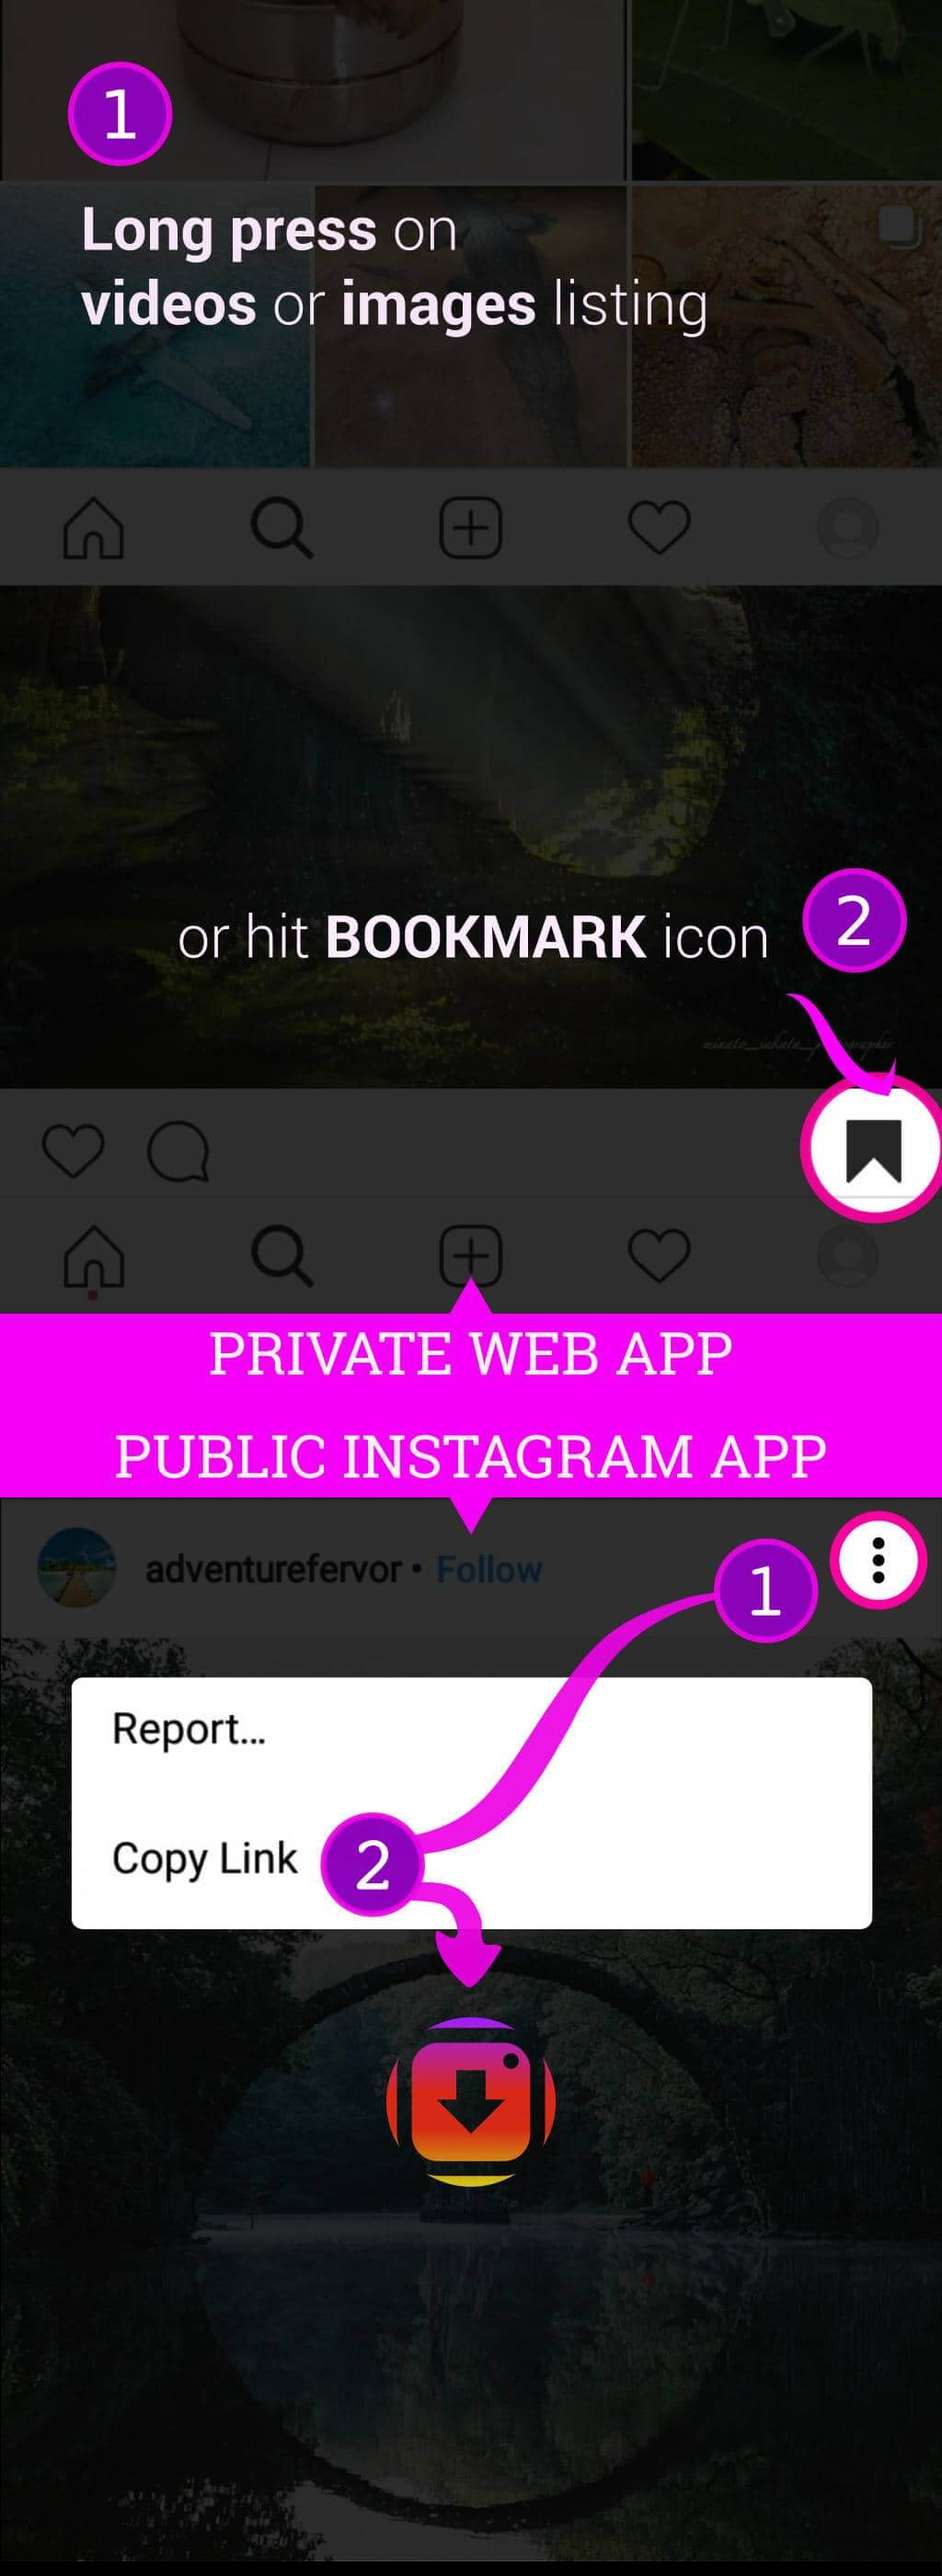
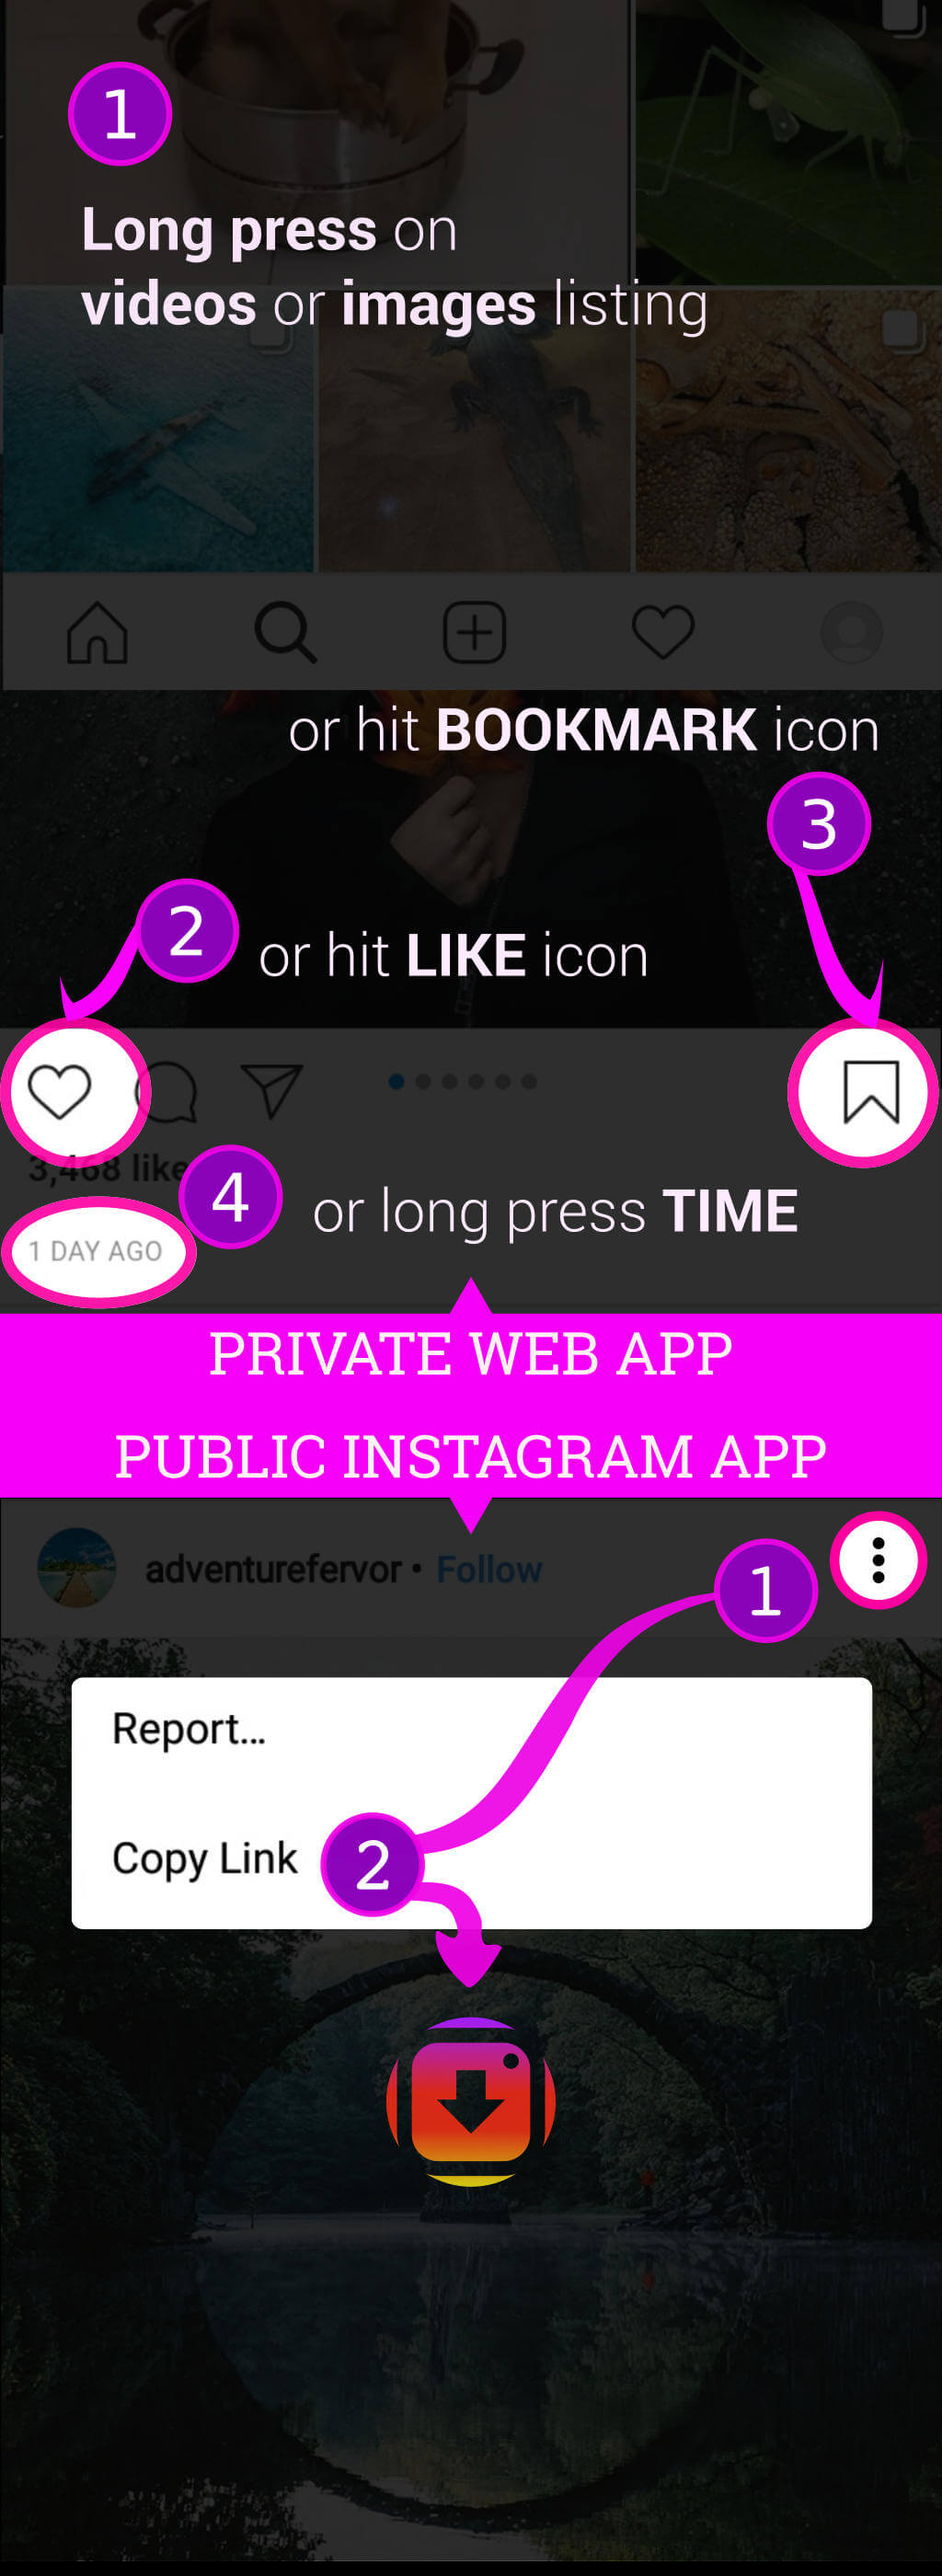
- Minor fixes.

diff --git a/project/vipinstagram/faq/index.html b/project/vipinstagram/faq/index.html
@@ -303,6 +303,12 @@
                           </div>
                         </details>
                         <details>
+                          <summary>How to refresh or reload the web app?</summary>
+                          <div>
+                            Pull to refresh like regular Instagram app.
+                          </div>
+                        </details>
+                        <details>
                           <summary>I downloaded one, but broken?</summary>
                           <div>
                             Might happen at slow connection with large size. When broken, the app may fail to display it. Try deleting it via Delete button at gallery display. Or long press it at grid menu display to reveal the Delete button. Or re-download it beforehand if prompted.
@@ -332,7 +338,7 @@
                             <br><b>FREE:</b>
                             <ol>
                               <li>Has reward or point system in return for app features.</li>
-                              <li>Browser will be killed if the app is put into background or overview. If scraping, it will be terminated.</li>
+                              <li>Scraper will be killed if the app is put into background or overview.</li>
                               <li>Scraper will start at the end of countdown after watching video with the above-mentioned minimum points. If the video is closed before the countdown ends, no scraping spider will run.</li>
                               <li>No watermark option is not saved.</li>
                               <li>My watermark requires PRO.</li>
@@ -340,7 +346,7 @@
                             <br><b>PRO:</b>
                             <ol>
                               <li>No hustle, no reward system.</li>
-                              <li>Browser persists as long as the app is open, not destroyed.</li>
+                              <li>Scraper persists as long as the app is open, not destroyed.</li>
                               <li>Scraper starts immediately.</li>
                               <li>No watermark option is saved.</li>
                               <li>My watermark replaces credits with yours.</li>
@@ -356,12 +362,25 @@
 
                           </div>
                         </details>
+                        
+                        <details>
+                          <summary>Know Bugs</summary>
+                          <div>
+                            <br><br><b>Know Bugs</b>
+                            <ul>
+                              <li>Camera not working in Android 10 (API 29)</li>
+                            </ul>
+                          </div>
+                        </details>
+                        
                         <details>
                           <summary>Tips!</summary>
                           <div>
                             Basically quick or long tap or pinch zoom anything to access regular or zoom displays. If something broken, try restarting the app, and see if any better.
                           </div>
                         </details>
+                        
+                        
                       </div>
                     </div>
                   </article>

diff --git a/project/vipinstagram/license/index.html b/project/vipinstagram/license/index.html
@@ -67,11 +67,17 @@
                                   <small>The Apache License<br>
                                     <span class="licenseowner">Copyright (C) 2013 Square, Inc.</span></small></a></p>
                               <hr>
-                              <p><a class="plain menuitem" href="#apache"><b>Picasso</b> &#10143;<br>
+                              <!-- <p><a class="plain menuitem" href="#apache"><b>Picasso</b> &#10143;<br>
                                   <small>The Apache License<br>
                                     <span class="licenseowner">Copyright (C) 2013 Square, Inc.</span></small></a></p>
+                              <hr> -->
+                              <p><a class="plain menuitem" href="#apache"><b>Glide</b> &#10143;<br>
+                                  <small>BSD, part MIT and Apache 2.0<br>
+                                    <span class="licenseowner">Copyright (c) 1994 Anthony Dekker</span></small></a></p>
                               <hr>
-                              <!-- <p><a class="plain menuitem" href="#apache"><b>Retrofit</b> &#10143;<br>
+                              <!-- 
+                              
+                              <p><a class="plain menuitem" href="#apache"><b>Retrofit</b> &#10143;<br>
         <small>The Apache License<br>
             <span class="licenseowner">Copyright (C) 2013 Square, Inc.</span></small></a></p><hr> -->
                               <p><a class="plain menuitem" href="#mit"><b>JSOUP</b> &#10143;<br>
@@ -98,10 +104,15 @@
                                   <small>The Apache License<br>
                                     <span class="licenseowner">Copyright (C) 2016 The Android Open Source Project<br>Modifications (c) 2017 CommonsWare, LLC</span></small></a></p>
                               <hr>
-                              <p><a class="plain menuitem" href="#apache"><b>Fetch</b> &#10143;<br>
+                              <!-- <p><a class="plain menuitem" href="#apache"><b>Fetch</b> &#10143;<br>
                                   <small>The Apache License<br>
                                     <span class="licenseowner">Copyright 2017 Tonyo Francis</span></small></a></p>
+                              <hr> -->
+                              <p><a class="plain menuitem" href="#apache"><b>Fast-Android-Networking</b> &#10143;<br>
+                                  <small>The Apache License<br>
+                                    <span class="licenseowner">Copyright (C) 2016 Amit Shekhar</span></small></a></p>
                               <hr>
+                              
                               <p><a class="plain menuitem" href="#apache"><b>Android libraries</b> &#10143;<br>
                                   <small>The Apache License<br>
                                     <span class="licenseowner">Copyright (C) 2006 (various years) The Android Open Source Project</span><br>

diff --git a/project/vipinstagram/howto/index.html b/project/vipinstagram/howto/index.html
@@ -56,8 +56,8 @@
                           <summary>Instagram</summary>
                           <div>
                             <ul>
-                              <li>Long press on any small thumbnails at listing pages: /tags, /explore, /profile, or search pages, etc.</li>
-                              <li>Or tap the BOOKMARK icon at larger listings, or full page views.</li>
+                              <li>Long press on any small thumbnails (videos or images) at listing pages: <i>/tags, /explore, /profile, or search pages</i>, etc.</li>
+                              <li>Or tap the <b>BOOKMARK</b> icon at listings with larger images, or full page views.</li>
                               <li>Or tap the three vertical dots at the top right coder, and hit <b>Copy link</b>.</li>
                             </ul>
                             <p>The first two is if using the provided private/ internal web app. The last can be any public browsers, or Instagram app.</p>
@@ -68,7 +68,11 @@
                         <details>
                           <summary>Twitter</summary>
                           <div>
-                            <img src="https://gausarts.github.io/project/vipinstagram/howto/twitter.jpg" alt="How to download Twitter photos and videos easily" />
+                          <ul>
+                              <li>Long press on post creation/ time link (e.g.: 1h or 19m) to the right of username at each card of listing pages.</li>
+                              <li>Or tap the <b>SHARE</b> icon at bottom right of card at listings and hit <b>Copy lint to Tweet</b>.</li>
+                            </ul>
+
                           </div>
                         </details>
                         <details>
